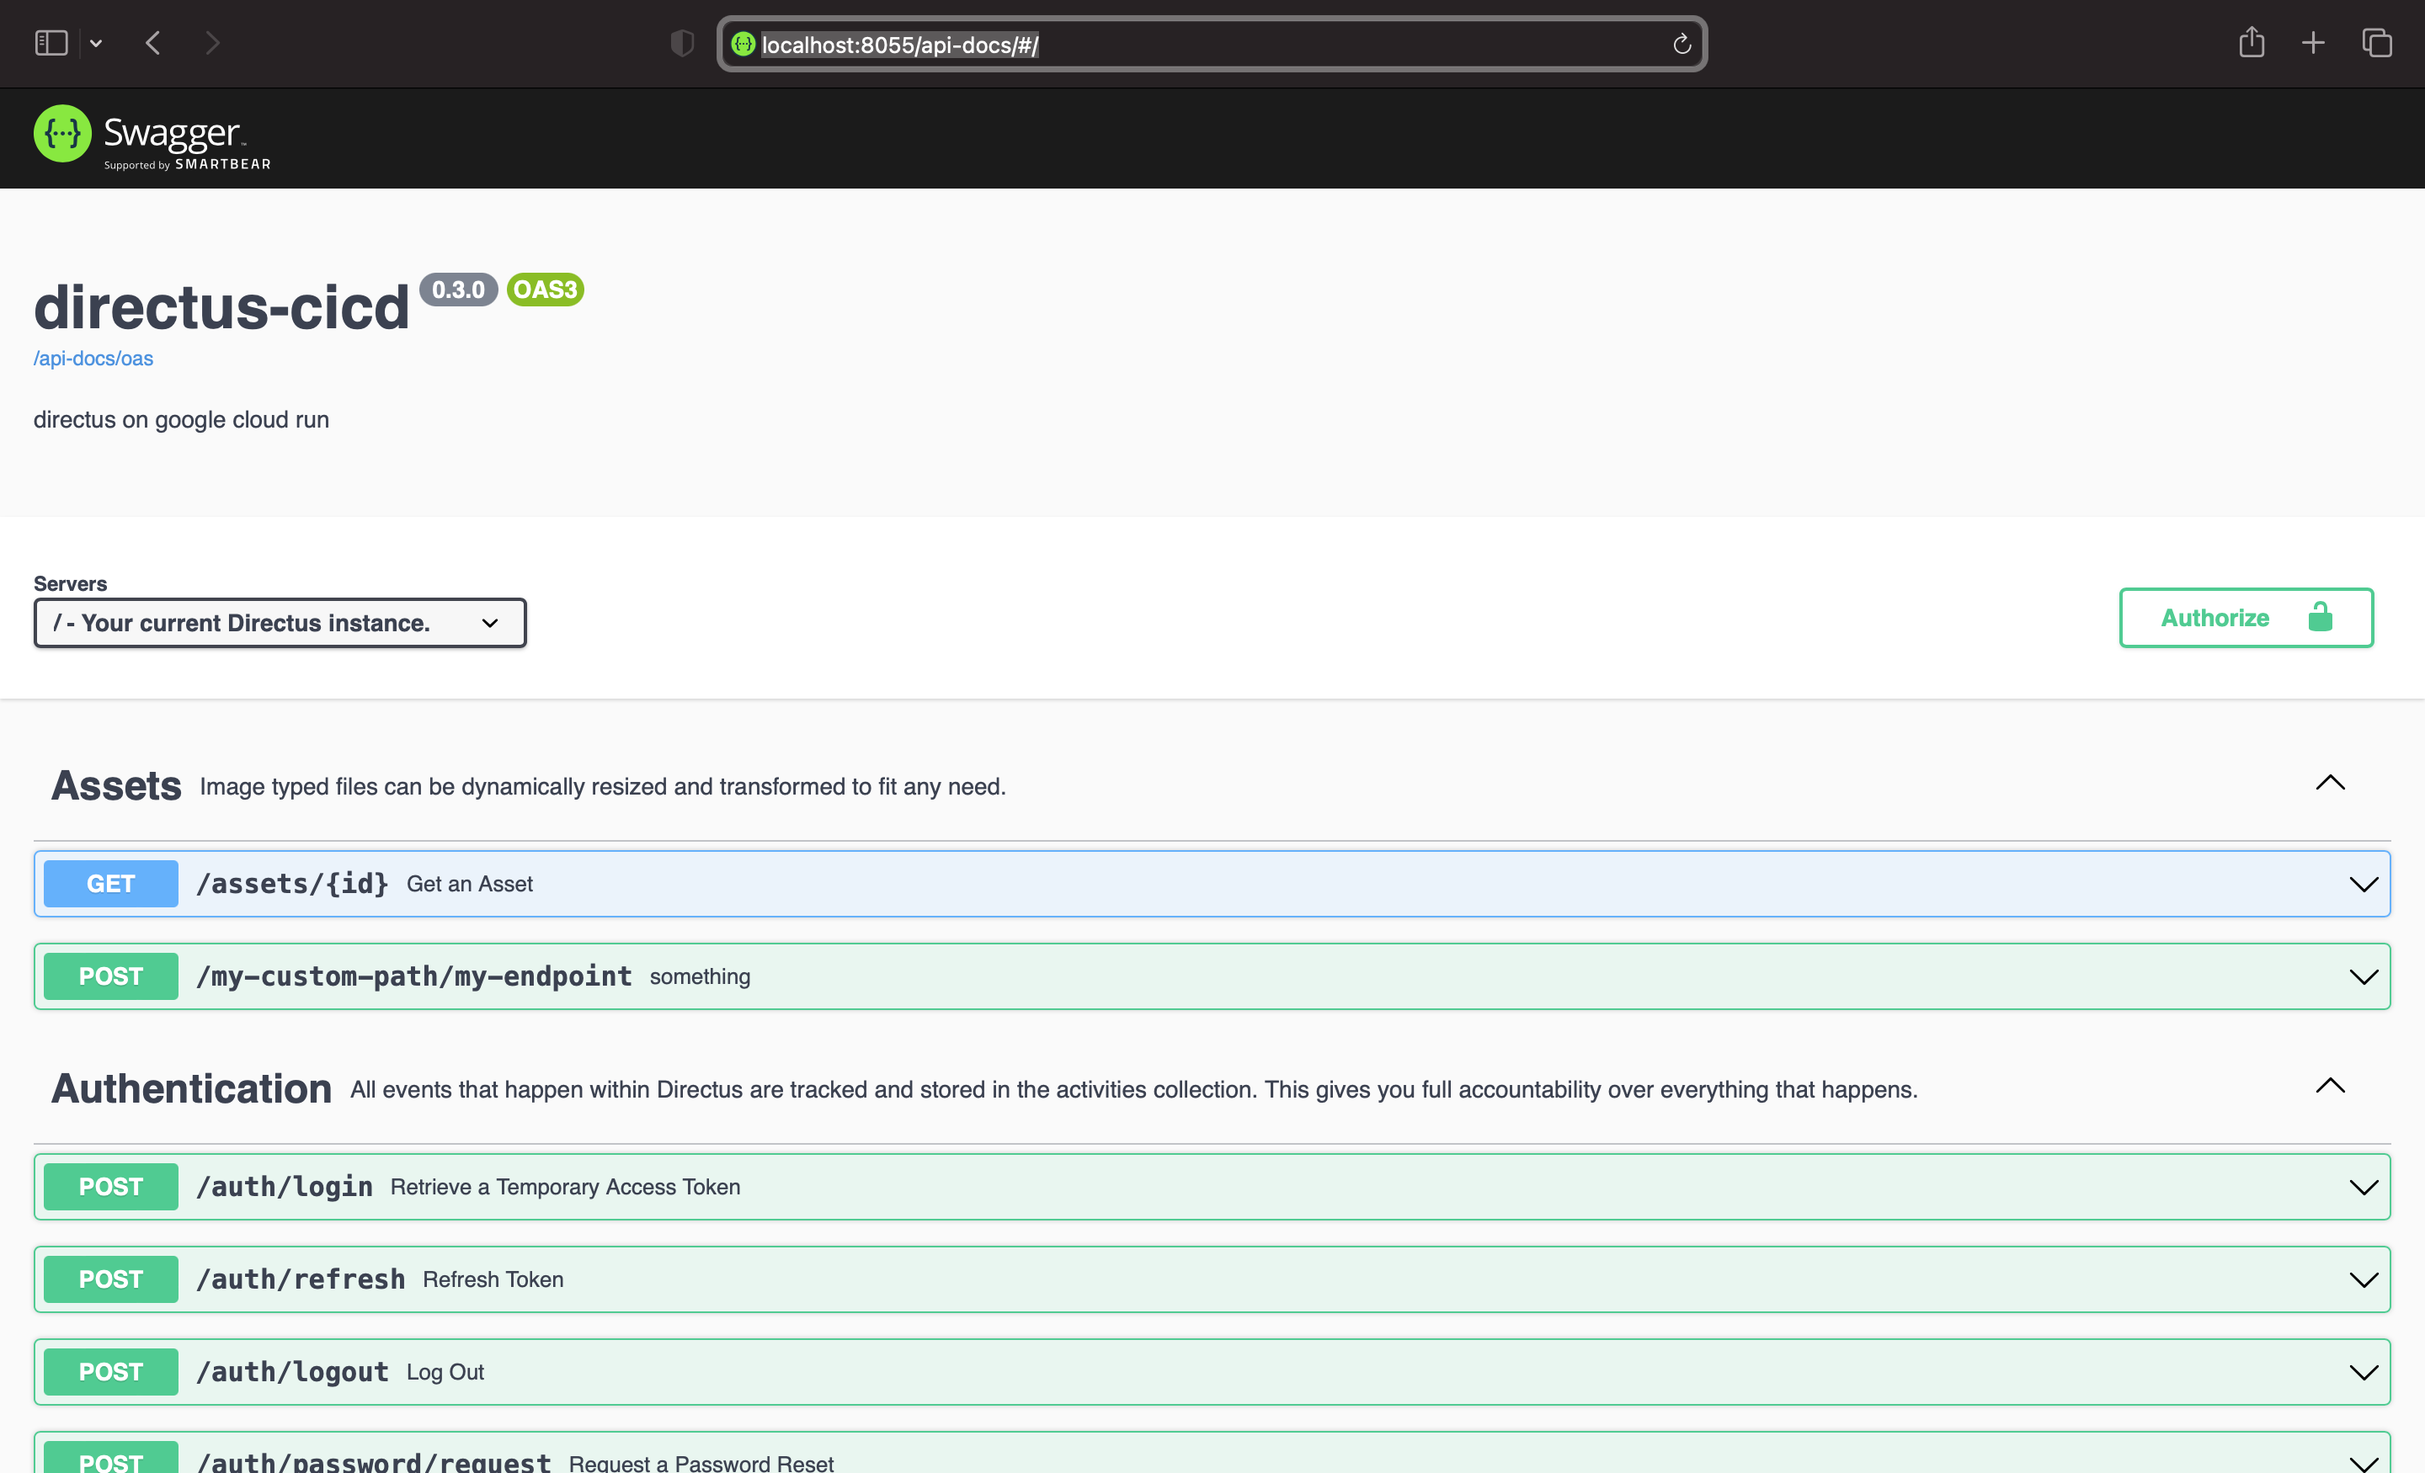
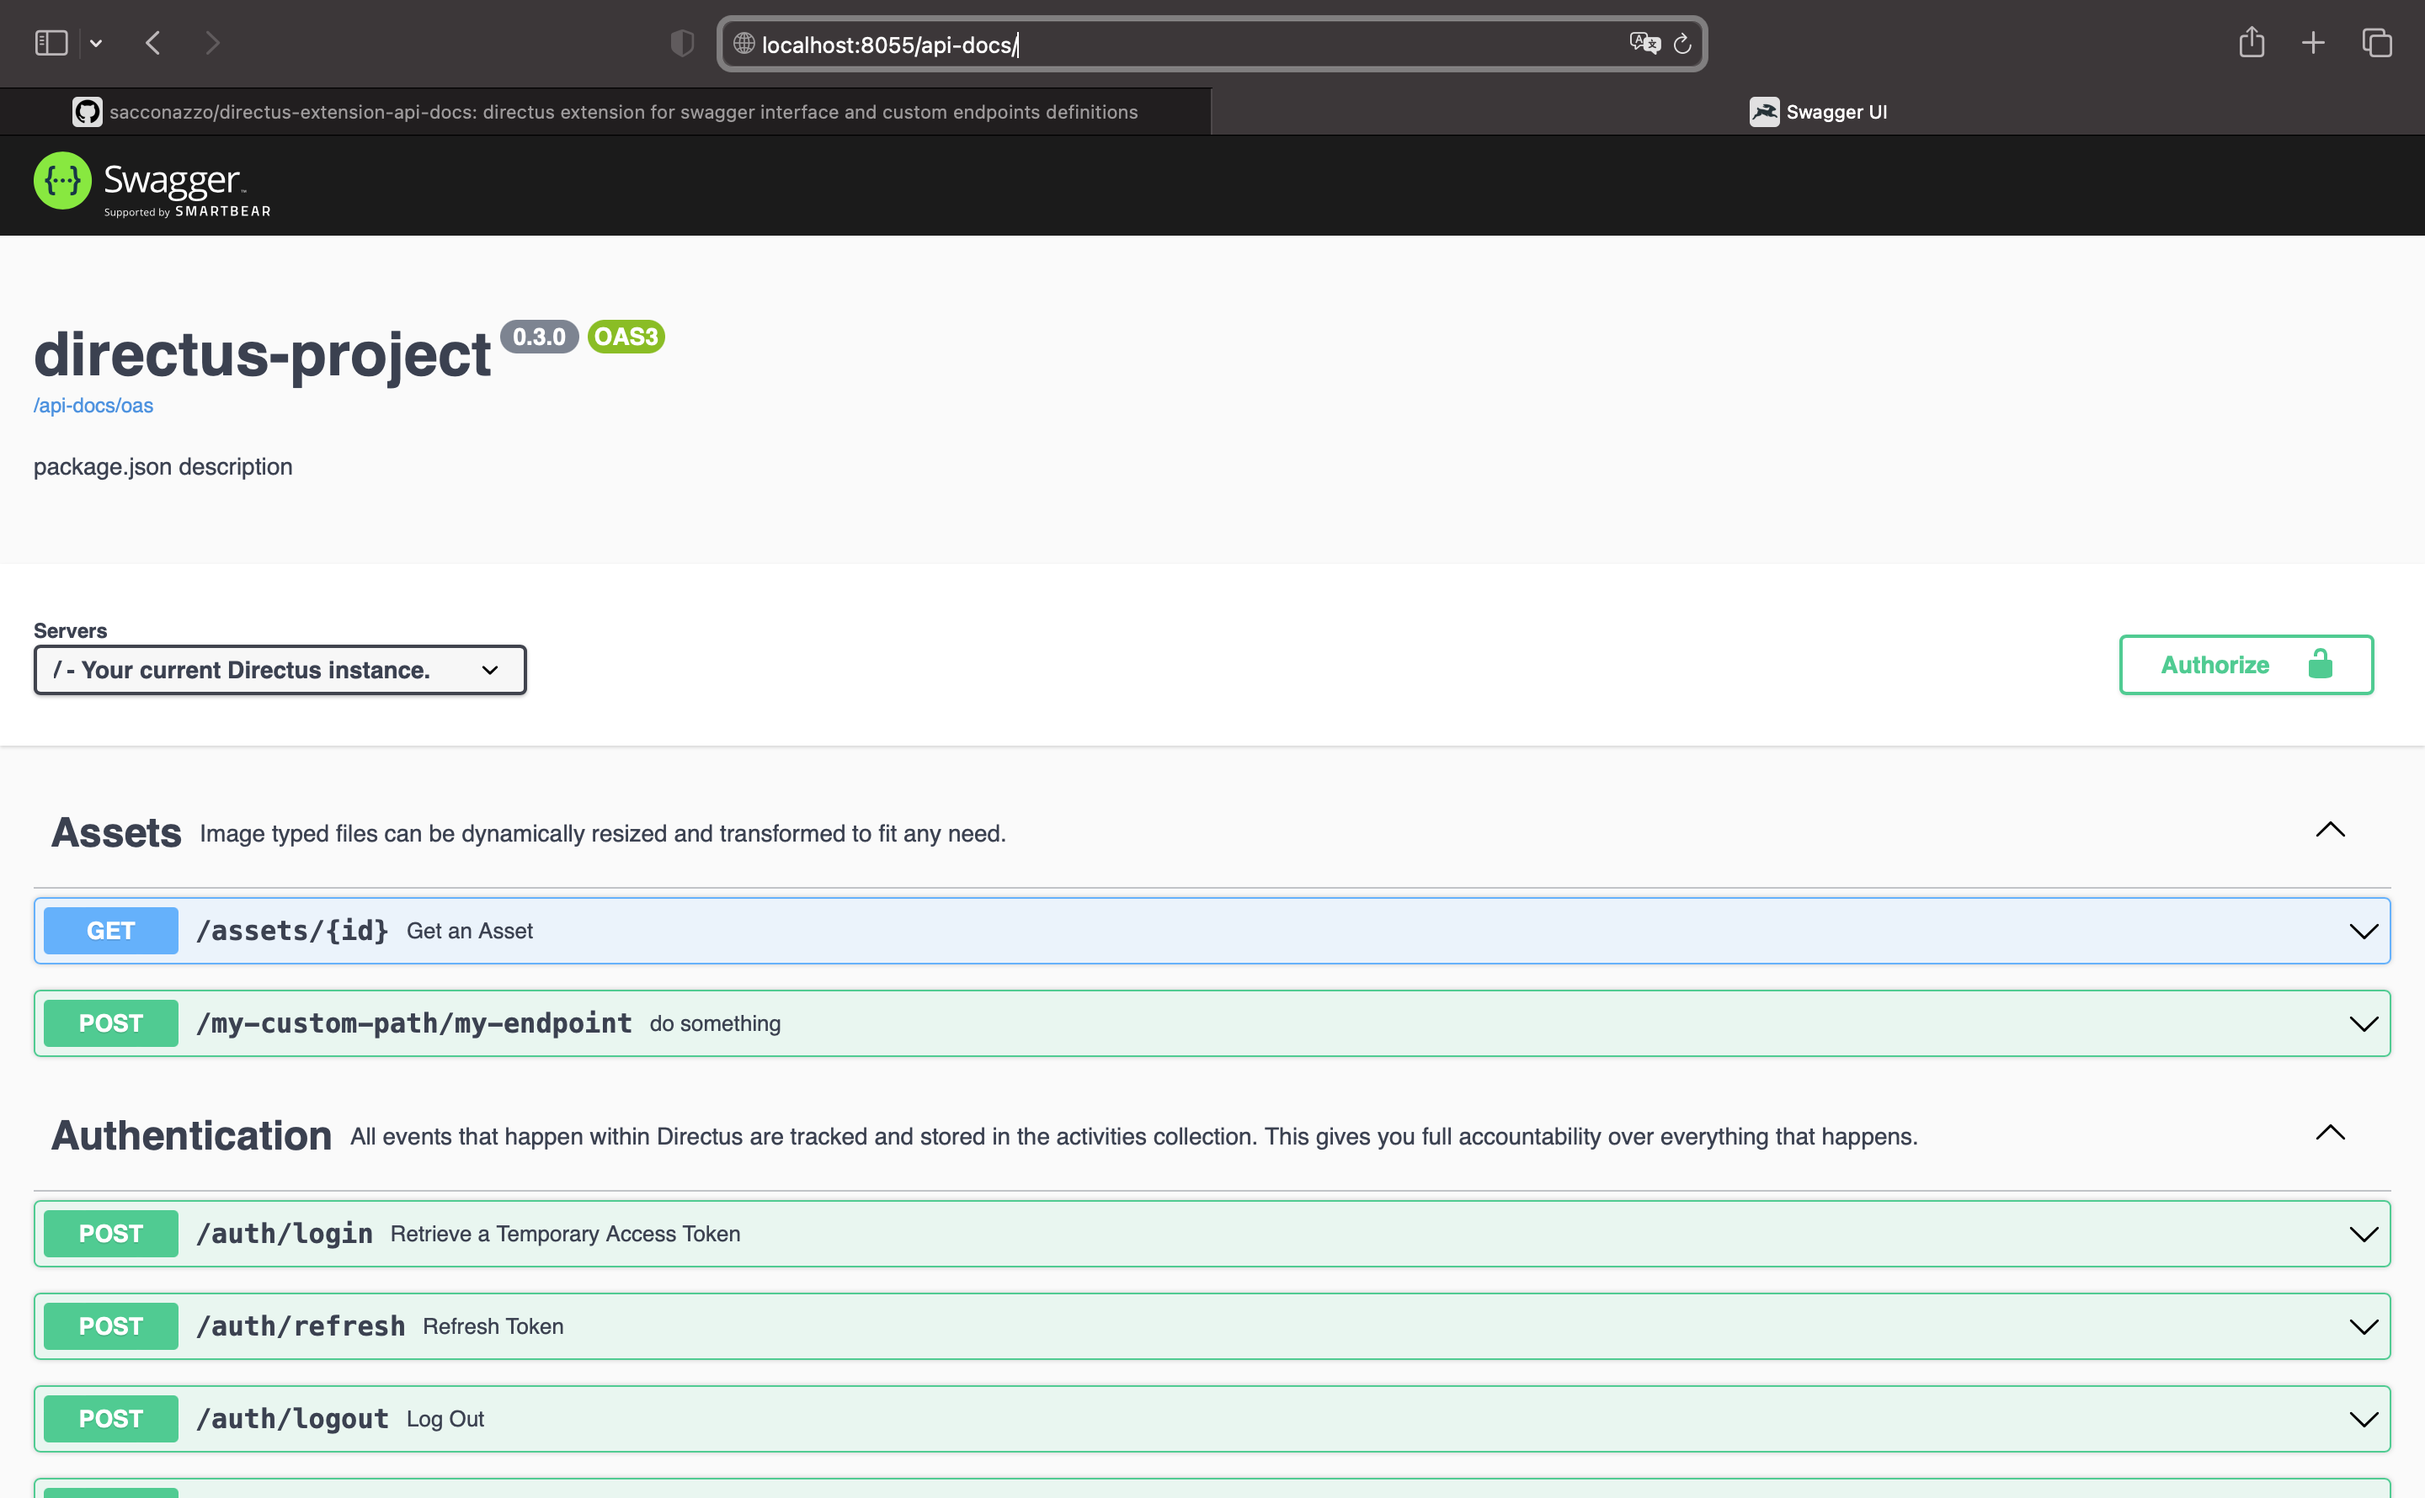
readme

diff --git a/README.md b/README.md
@@ -1,6 +1,6 @@
 # directus-extension-api-docs
 
-Directus Extension for include a Swagger interface and custom endpoints definitions
+Directus Extension to include a Swagger interface and custom endpoints definitions
 
 ![workspace](assets/swagger.png)
 
@@ -28,8 +28,8 @@ Example below:
     "paths": {
         "/my-custom-path/my-endpoint": {
             "post": {
-                "summary": "something",
-                "description": "something",
+                "summary": "do something",
+                "description": "do something",
                 "parameters": [
                     {
                         "$ref": "#/components/parameters/Meta"
